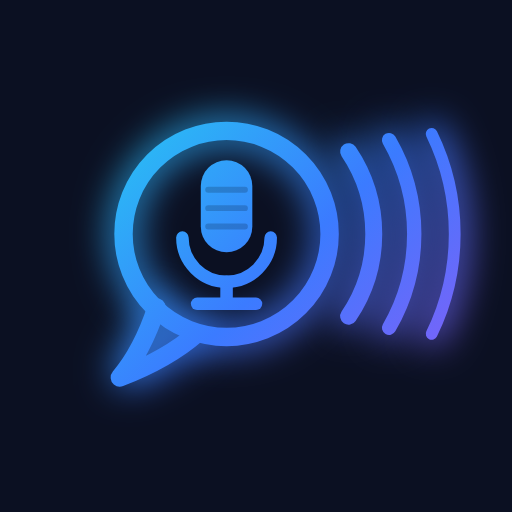
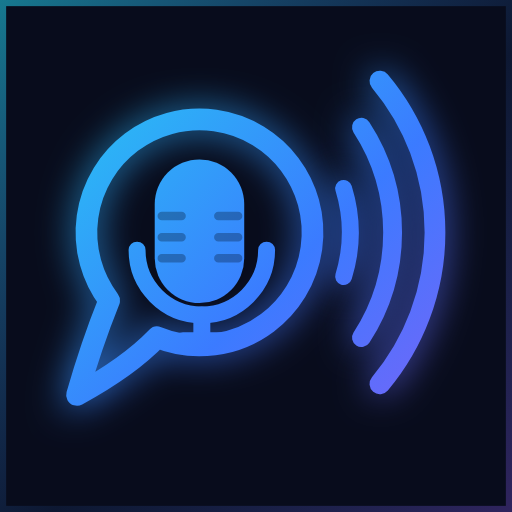
Redraw the mark to match the supplied brand tile
The logo was close to the supplied icon but not measured off it. Every
coordinate now comes from the tile:

- The bubble moves left and shrinks (centre 42,44 r28 -> 38,45 r24). The
  wave fan needs the right third of the box; before, the two were fighting
  for the same space.
- The waves fan *wider* as they go outward (17/33/40 degrees at r32/41/50)
  instead of narrowing. This is the single most visible difference: the
  near tick is short, the far arc sweeps most of a quadrant.
- The ring and its tail are one continuous outline rather than a spike laid
  over a closed circle. The old arrangement trapped a sliver between the
  two paths, and the glow flooded it into a solid wedge.
- The grille is short ticks against each edge of the capsule with a gap
  down the middle, not lines ruled across it; the capsule is a stadium; the
  foot is short.
- The bloom is narrower than the stroke it sits under (6 -> 3.5, blur 5 ->
  4) so it can no longer close small gaps in the artwork.

The icon plate picks up the tile's lit top-left rim, which is what stops it
reading as a flat square, and darkens to #080C1C to match. The adaptive
background colour follows it. The mark is drawn larger on the plate: it was
covering 56% of the tile against the reference's 75%.

Icons regenerated from the painter, so the home-screen icon and the in-app
mark stay in step.

Claude-Session: https://claude.ai/code/session_01RZBxVg1eVRJ68ihQ6WdfJF

diff --git a/lib/core/widgets/voix_logo.dart b/lib/core/widgets/voix_logo.dart
@@ -72,9 +72,11 @@ class _VoixLogoPainter extends CustomPainter {
   final double progress;
   final bool glow;
 
-  // Geometry is authored in a 100×100 box and scaled to the widget size.
-  static const _centre = Offset(42, 44);
-  static const _bubbleR = 28.0;
+  // Geometry is authored in a 100×100 box and scaled to the widget size, with
+  // every coordinate measured off the supplied brand tile. The bubble is
+  // deliberately left of centre: the wave fan needs the right third of the box.
+  static const _centre = Offset(38, 45);
+  static const _bubbleR = 24.0;
 
   @override
   void paint(Canvas canvas, Size size) {
@@ -92,61 +94,90 @@ class _VoixLogoPainter extends CustomPainter {
       ..strokeJoin = StrokeJoin.round
       ..strokeWidth = width * strokeScale;
 
-    // ── Bubble: a ring with a tail, not a filled blob ──────────────────
+    // ── Bubble: one continuous outline — ring plus tail ────────────────
+    // The ring is broken between 112° and 143° and the stroke runs out to the
+    // tail's point and back instead of closing across. Drawing the tail as a
+    // second path over a complete circle leaves a sliver between the two,
+    // which the glow then floods into a solid wedge; this way there is nothing
+    // to trap, and the mark reads as the single unbroken line it is on the
+    // brand tile.
+    const tailStart = 143.0; // lower-left, where the outline leaves the ring
+    const tailEnd = 112.0; //   bottom-left, where it rejoins
+    // The long way round: everything except the span the tail occupies. Skia
+    // normalises a sweep past a full turn, so this has to be the 329° arc,
+    // not 143 − 112 + 360.
+    const ringSweep = 360.0 - (tailStart - tailEnd);
     final bubble = Path()
-      ..addOval(Rect.fromCircle(center: _centre, radius: _bubbleR));
-    // A short pointed tail off the lower-left. Both ends are anchored on the
-    // circle itself — ending short of it made the tail look like it cut
-    // across the microphone.
-    final tail = Path()
-      ..moveTo(23, 64)
-      ..quadraticBezierTo(19, 76, 13, 83)
-      ..quadraticBezierTo(26, 78, 34, 71);
+      ..arcTo(
+        Rect.fromCircle(center: _centre, radius: _bubbleR),
+        tailStart * math.pi / 180,
+        ringSweep * math.pi / 180,
+        true,
+      )
+      // The arc ends at 112°, (29.01, 67.25). Out to the point, then back up
+      // to where the ring was left at 143°, (18.83, 59.44).
+      ..quadraticBezierTo(23, 73.5, 12, 79.5)
+      ..quadraticBezierTo(15, 69, 18.83, 59.44)
+      ..close();
 
     // ── Microphone ─────────────────────────────────────────────────────
+    // A stadium, not a rounded rectangle: on the brand tile the capsule's top
+    // and bottom are full semicircles.
+    const capsuleRect = Rect.fromLTRB(28.5, 29.5, 47.5, 60);
     final capsule = Path()
       ..addRRect(
         RRect.fromRectAndRadius(
-          const Rect.fromLTRB(35, 24, 49, 49),
-          const Radius.circular(7),
+          capsuleRect,
+          const Radius.circular(9.5), // half the capsule's 19-unit width
         ),
       );
-    // The grille lines across the capsule, as on the brand icon.
+    // The grille reads as short ticks against each edge of the capsule with a
+    // clear gap down the middle, not as lines ruled across it.
     final grille = Path();
     for (var i = 0; i < 3; i++) {
-      final y = 32.0 + i * 5.0;
+      final y = 41.5 + i * 4.5;
       grille
-        ..moveTo(37, y)
-        ..lineTo(47, y);
+        ..moveTo(30.0, y)
+        ..lineTo(34.2, y)
+        ..moveTo(42.0, y)
+        ..lineTo(46.2, y);
     }
     // The open U the capsule sits in.
     final cradle = Path()
       ..addArc(
-        Rect.fromCircle(center: const Offset(42, 45), radius: 12),
+        Rect.fromCircle(center: const Offset(38.5, 48.75), radius: 13.75),
         0, // +x axis
         math.pi, // sweep through the bottom half
       );
     final stem = Path()
-      ..moveTo(42, 57)
-      ..lineTo(42, 63);
+      ..moveTo(38.5, 62.5)
+      ..lineTo(38.5, 68);
+    // A short foot, roughly half the capsule's width.
     final base = Path()
-      ..moveTo(34, 63)
-      ..lineTo(50, 63);
+      ..moveTo(34.5, 68)
+      ..lineTo(42.5, 68);
 
     // ── Sound waves: three arcs, as on the brand icon ──────────────────
-    // Revealed last, so on the splash the mark draws itself and *then*
-    // "speaks".
+    // Each arc is concentric with the bubble and fans *wider* than the one
+    // inside it — the near tick is short, the far arc sweeps almost a
+    // quadrant. Revealed last, so on the splash the mark draws itself and
+    // *then* "speaks".
+    const waveArcs = <({double radius, double halfAngle, double width})>[
+      (radius: 32, halfAngle: 17, width: 3.6),
+      (radius: 41, halfAngle: 33, width: 4.0),
+      (radius: 50, halfAngle: 40, width: 4.4),
+    ];
     final waveT = ((progress - 0.55) / 0.45).clamp(0.0, 1.0);
     final waves = <({Path path, double width})>[
-      for (var i = 0; i < 3; i++)
+      for (final arc in waveArcs)
         (
           path: Path()
             ..addArc(
-              Rect.fromCircle(center: _centre, radius: 40.0 + i * 11.0),
-              -(34 - i * 4) * math.pi / 180,
-              (34 - i * 4) * 2 * math.pi / 180,
+              Rect.fromCircle(center: _centre, radius: arc.radius),
+              -arc.halfAngle * math.pi / 180,
+              arc.halfAngle * 2 * math.pi / 180,
             ),
-          width: 4.6 - i * 0.7,
+          width: arc.width,
         ),
     ];
 
@@ -158,19 +189,17 @@ class _VoixLogoPainter extends CustomPainter {
         ..shader = shader
         ..style = PaintingStyle.stroke
         ..strokeCap = StrokeCap.round
-        ..strokeWidth = 6.0 * strokeScale
-        ..maskFilter = const MaskFilter.blur(BlurStyle.normal, 5);
-      canvas
-        ..drawPath(_trim(bubble, progress), bloom)
-        ..drawPath(_trim(tail, progress), bloom);
+        // Kept narrower than the stroke it sits under: a wide bloom closes the
+        // gap inside the tail and turns the spike into a filled triangle.
+        ..strokeWidth = 3.5 * strokeScale
+        ..maskFilter = const MaskFilter.blur(BlurStyle.normal, 4);
+      canvas.drawPath(_trim(bubble, progress), bloom);
       for (final w in waves) {
         if (waveT > 0) canvas.drawPath(_trim(w.path, waveT), bloom);
       }
     }
 
-    canvas
-      ..drawPath(_trim(bubble, progress), stroke(5.0))
-      ..drawPath(_trim(tail, progress), stroke(5.0));
+    canvas.drawPath(_trim(bubble, progress), stroke(4.6));
 
     // The mic is solid in the icon and stroked while the splash draws itself.
     if (filled) {
@@ -181,18 +210,18 @@ class _VoixLogoPainter extends CustomPainter {
         ..drawPath(
           grille,
           Paint()
-            ..color = const Color(0x33000B1F)
+            ..color = const Color(0x4D000B1F)
             ..style = PaintingStyle.stroke
             ..strokeCap = StrokeCap.round
-            ..strokeWidth = 1.6 * strokeScale,
+            ..strokeWidth = 1.8 * strokeScale,
         );
     } else {
-      canvas.drawPath(_trim(capsule, progress), stroke(3.6));
+      canvas.drawPath(_trim(capsule, progress), stroke(3.4));
     }
     canvas
-      ..drawPath(filled ? cradle : _trim(cradle, progress), stroke(3.4))
-      ..drawPath(filled ? stem : _trim(stem, progress), stroke(3.4))
-      ..drawPath(filled ? base : _trim(base, progress), stroke(3.4));
+      ..drawPath(filled ? cradle : _trim(cradle, progress), stroke(3.6))
+      ..drawPath(filled ? stem : _trim(stem, progress), stroke(3.6))
+      ..drawPath(filled ? base : _trim(base, progress), stroke(3.6));
 
     if (waveT > 0) {
       for (final w in waves) {

diff --git a/test/generate_launcher_icons.dart b/test/generate_launcher_icons.dart
@@ -26,7 +26,7 @@ void main() {
   // The icon plate, matching the near-black ground of the supplied brand icon.
   // Flat rather than a gradient so the adaptive background layer, which can
   // only be a single colour, stays identical to the legacy plate.
-  const plate = Color(0xFF0B1022);
+  const plate = Color(0xFF080C1C);
 
   /// Android's five bucket densities, as multiples of the mdpi baseline.
   const densities = <String, double>{
@@ -48,13 +48,7 @@ void main() {
       'legacy $bucket',
       size: legacy,
       path: '$res/mipmap-$bucket/ic_launcher.png',
-      child: DecoratedBox(
-        decoration: BoxDecoration(
-          color: plate,
-          borderRadius: BorderRadius.circular(legacy * 0.22),
-        ),
-        child: Center(child: VoixLogo(size: legacy * 0.74)),
-      ),
+      child: _Plate(size: legacy, plate: plate),
     );
 
     // Adaptive layers are authored at 108dp; the launcher masks them down to a
@@ -66,7 +60,7 @@ void main() {
       size: adaptive,
       path: '$res/mipmap-$bucket/ic_launcher_foreground.png',
       child: Center(
-        child: VoixLogo(size: adaptive * (60 / 108)),
+        child: VoixLogo(size: adaptive * (64 / 108)),
       ),
     );
 
@@ -79,7 +73,7 @@ void main() {
       path: '$res/mipmap-$bucket/ic_launcher_monochrome.png',
       child: Center(
         child: VoixLogo(
-          size: adaptive * (58 / 108),
+          size: adaptive * (62 / 108),
           filled: false,
           strokeScale: 1.15,
           gradient: const LinearGradient(colors: [Colors.white, Colors.white]),
@@ -90,16 +84,110 @@ void main() {
     );
   });
 
-  // Play requires exactly 512×512 for the store listing.
+  // Play requires exactly 512×512 for the store listing. Play rounds the
+  // corners itself, so the plate runs edge to edge here rather than being
+  // rounded like the legacy icon.
   _write(
     'play store listing icon',
     size: 512,
     path: '../store/play_icon_512.png',
-    child: ColoredBox(
-      color: plate,
-      child: const Center(child: VoixLogo(size: 368)),
-    ),
+    child: const _Plate(size: 512, plate: plate, radiusFactor: 0),
   );
+}
+
+/// The icon tile: dark plate, a lit top-left rim, and the mark.
+///
+/// The rim is what makes the supplied brand tile read as a lit object rather
+/// than a flat square, so it is drawn rather than dropped.
+class _Plate extends StatelessWidget {
+  const _Plate({
+    required this.size,
+    required this.plate,
+    this.radiusFactor = 0.22,
+  });
+
+  final double size;
+  final Color plate;
+  final double radiusFactor;
+
+  @override
+  Widget build(BuildContext context) {
+    final radius = BorderRadius.circular(size * radiusFactor);
+    return DecoratedBox(
+      decoration: BoxDecoration(color: plate, borderRadius: radius),
+      child: Stack(
+        children: [
+          // The rim sits inside the plate edge, brightest at the top-left
+          // where the brand gradient starts.
+          Positioned.fill(
+            child: DecoratedBox(
+              decoration: BoxDecoration(
+                borderRadius: radius,
+                border: GradientBoxBorder(
+                  width: size * 0.012,
+                  gradient: LinearGradient(
+                    begin: Alignment.topLeft,
+                    end: Alignment.bottomRight,
+                    colors: [
+                      const Color(0xFF22D3EE).withValues(alpha: 0.55),
+                      const Color(0xFF3B82F6).withValues(alpha: 0.10),
+                      const Color(0xFF8B5CF6).withValues(alpha: 0.30),
+                    ],
+                    stops: const [0.0, 0.55, 1.0],
+                  ),
+                ),
+              ),
+            ),
+          ),
+          Center(child: VoixLogo(size: size * 0.92)),
+        ],
+      ),
+    );
+  }
+}
+
+/// A [BoxBorder] painted with a gradient — Flutter's own [Border] only takes
+/// flat colours, and the tile's rim has to run through the brand ramp.
+class GradientBoxBorder extends BoxBorder {
+  const GradientBoxBorder({required this.gradient, required this.width});
+
+  final Gradient gradient;
+  final double width;
+
+  @override
+  BorderSide get bottom => BorderSide.none;
+  @override
+  BorderSide get top => BorderSide.none;
+  @override
+  bool get isUniform => true;
+  @override
+  EdgeInsetsGeometry get dimensions => EdgeInsets.all(width);
+
+  @override
+  void paint(
+    Canvas canvas,
+    Rect rect, {
+    TextDirection? textDirection,
+    BoxShape shape = BoxShape.rectangle,
+    BorderRadius? borderRadius,
+  }) {
+    final paint = Paint()
+      ..shader = gradient.createShader(rect)
+      ..style = PaintingStyle.stroke
+      ..strokeWidth = width;
+    // Inset by half the stroke so the whole rim lands inside the plate rather
+    // than half of it bleeding off the edge of the PNG.
+    final inner = rect.deflate(width / 2);
+    if (borderRadius == null) {
+      canvas.drawRect(inner, paint);
+    } else {
+      canvas.drawRRect(borderRadius.toRRect(inner), paint);
+    }
+  }
+
+  @override
+  ShapeBorder scale(double t) =>
+      GradientBoxBorder(gradient: gradient, width: width * t);
 }
 
 /// Renders [child] into a [size]×[size] surface and writes it to [path].
